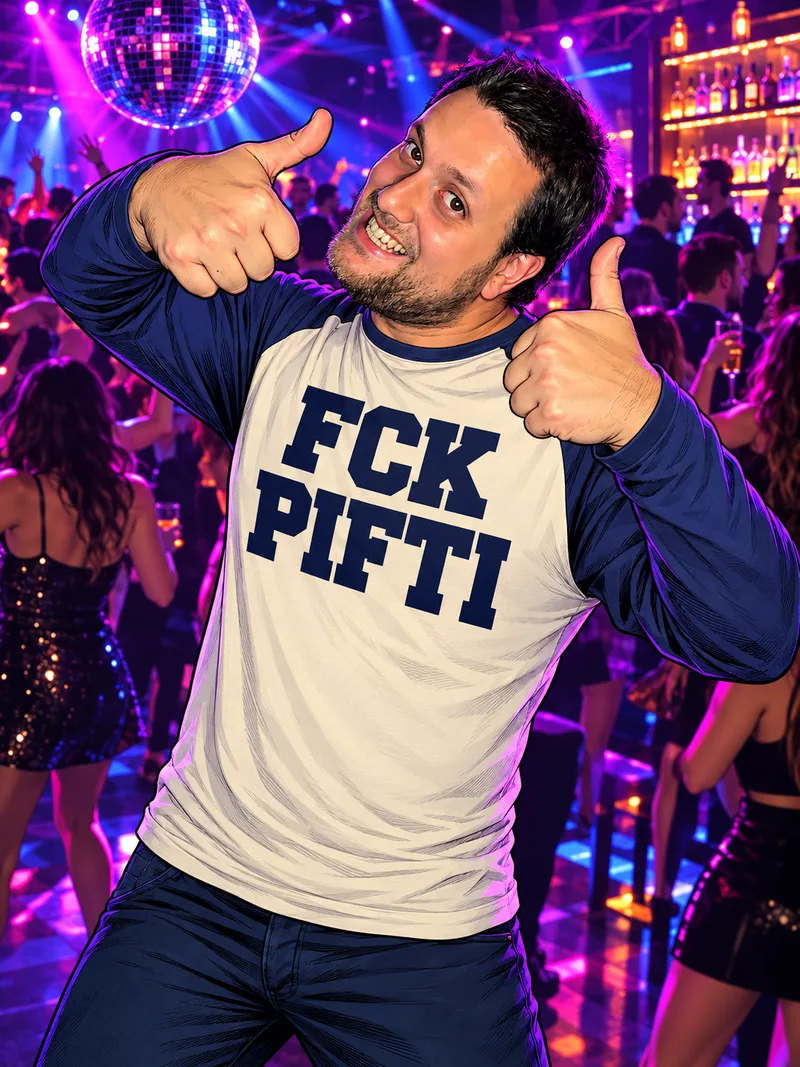
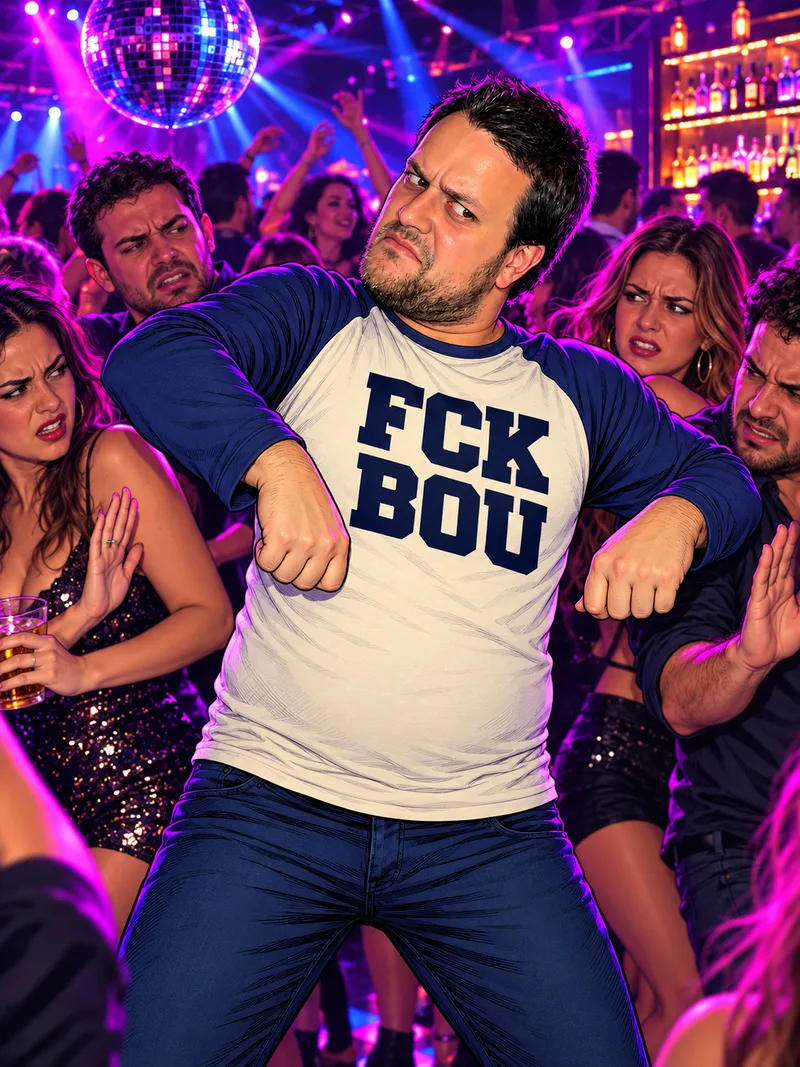
Teszt: MM új kép
Claude-Session: https://claude.ai/code/session_019pbky3KM5NKqxLPJGQF2Ch

diff --git a/src/ui.js b/src/ui.js
@@ -295,7 +295,7 @@ const ART = {
   c_alina:    { src:'art/pc_alina.webp', av:'52% 22%', pos:'52% 20%' },
   c_pc_laci:  { src:'art/pc_laci.webp', av:'38% 22%', pos:'38% 20%' },
   c_pg:       { src:'art/pc_pg.webp', av:'45% 15%', pos:'45% 14%' },
-  c_mm:       { src:'art/pc_mm.webp', av:'56% 20%', pos:'56% 18%' },
+  c_mm:       { src:'art/pc_mm.webp', av:'57% 20%', pos:'57% 18%' },
   c_idegen:   { src:'art/pc_idegen.webp', av:'45% 30%', pos:'45% 28%' },
   c_pc_gabi:  { src:'art/pc_gabi.webp', av:'45% 12%', pos:'45% 12%' },
   a_kidobtak: { src:'art/pc_kidobtak.webp', av:'50% 30%', pos:'50% 30%' },
